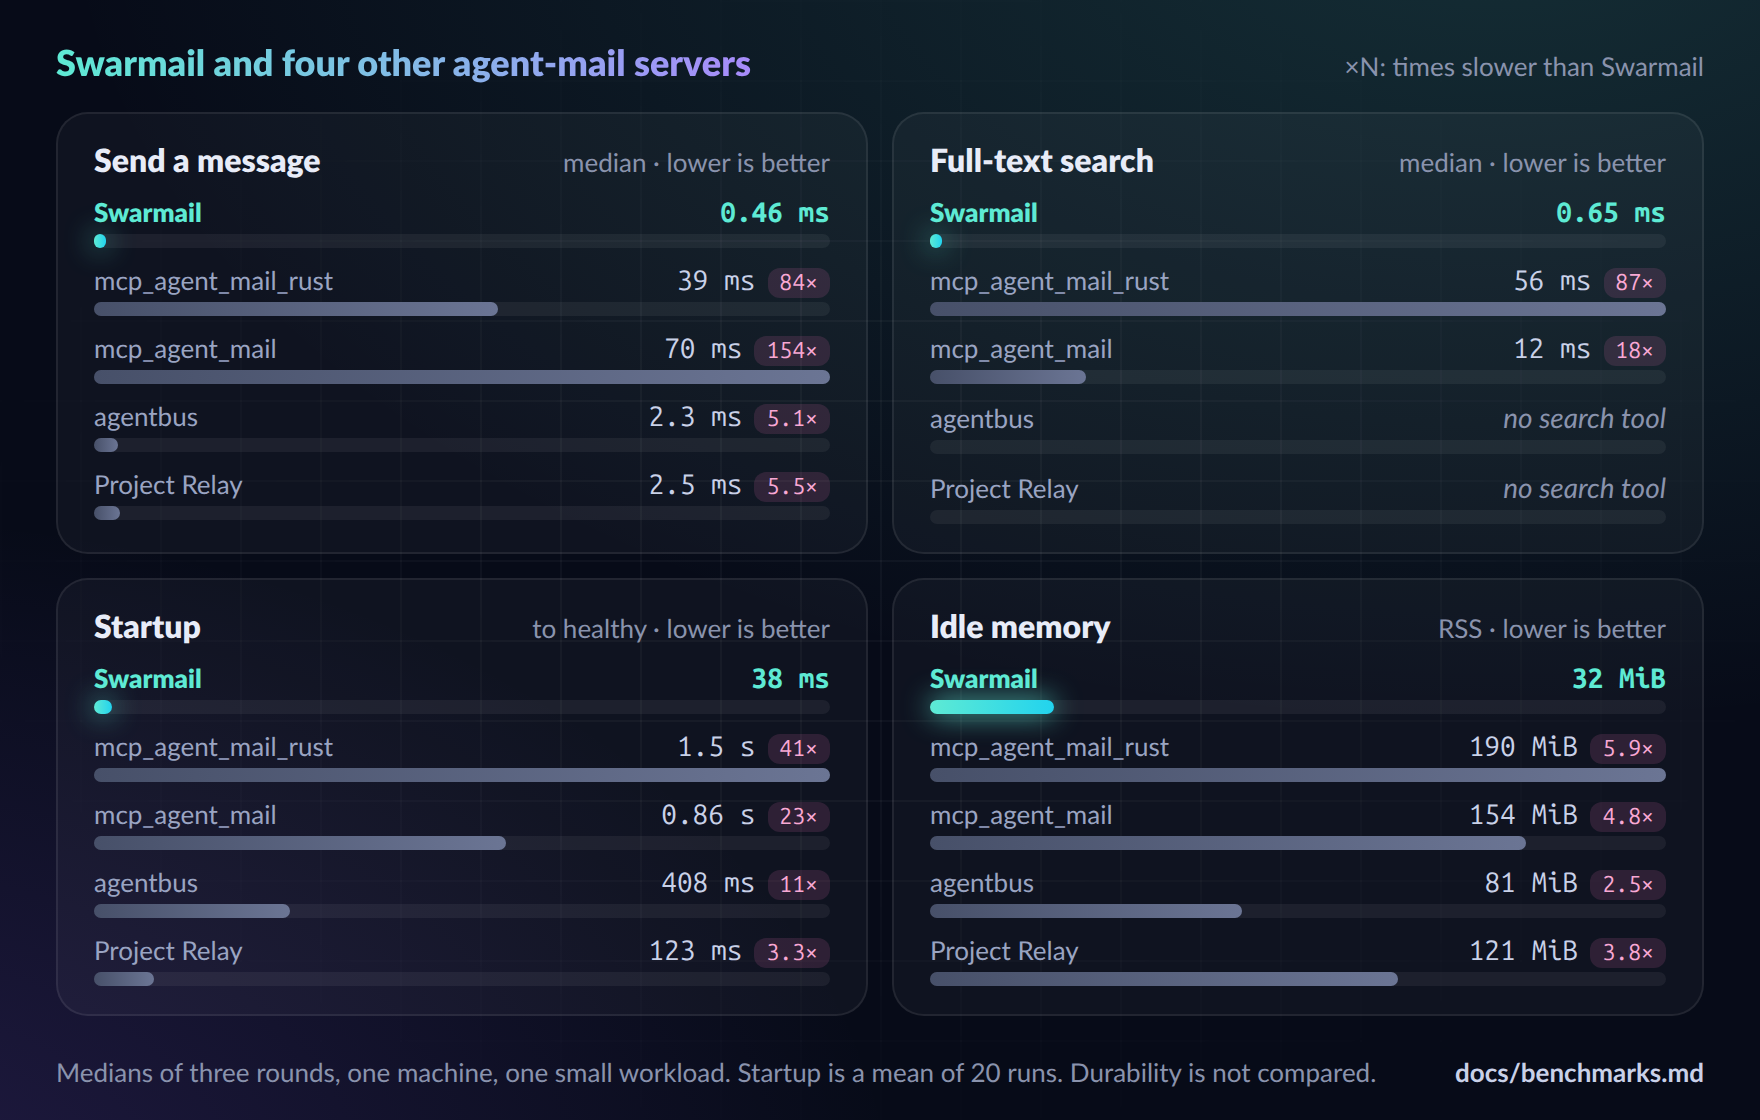
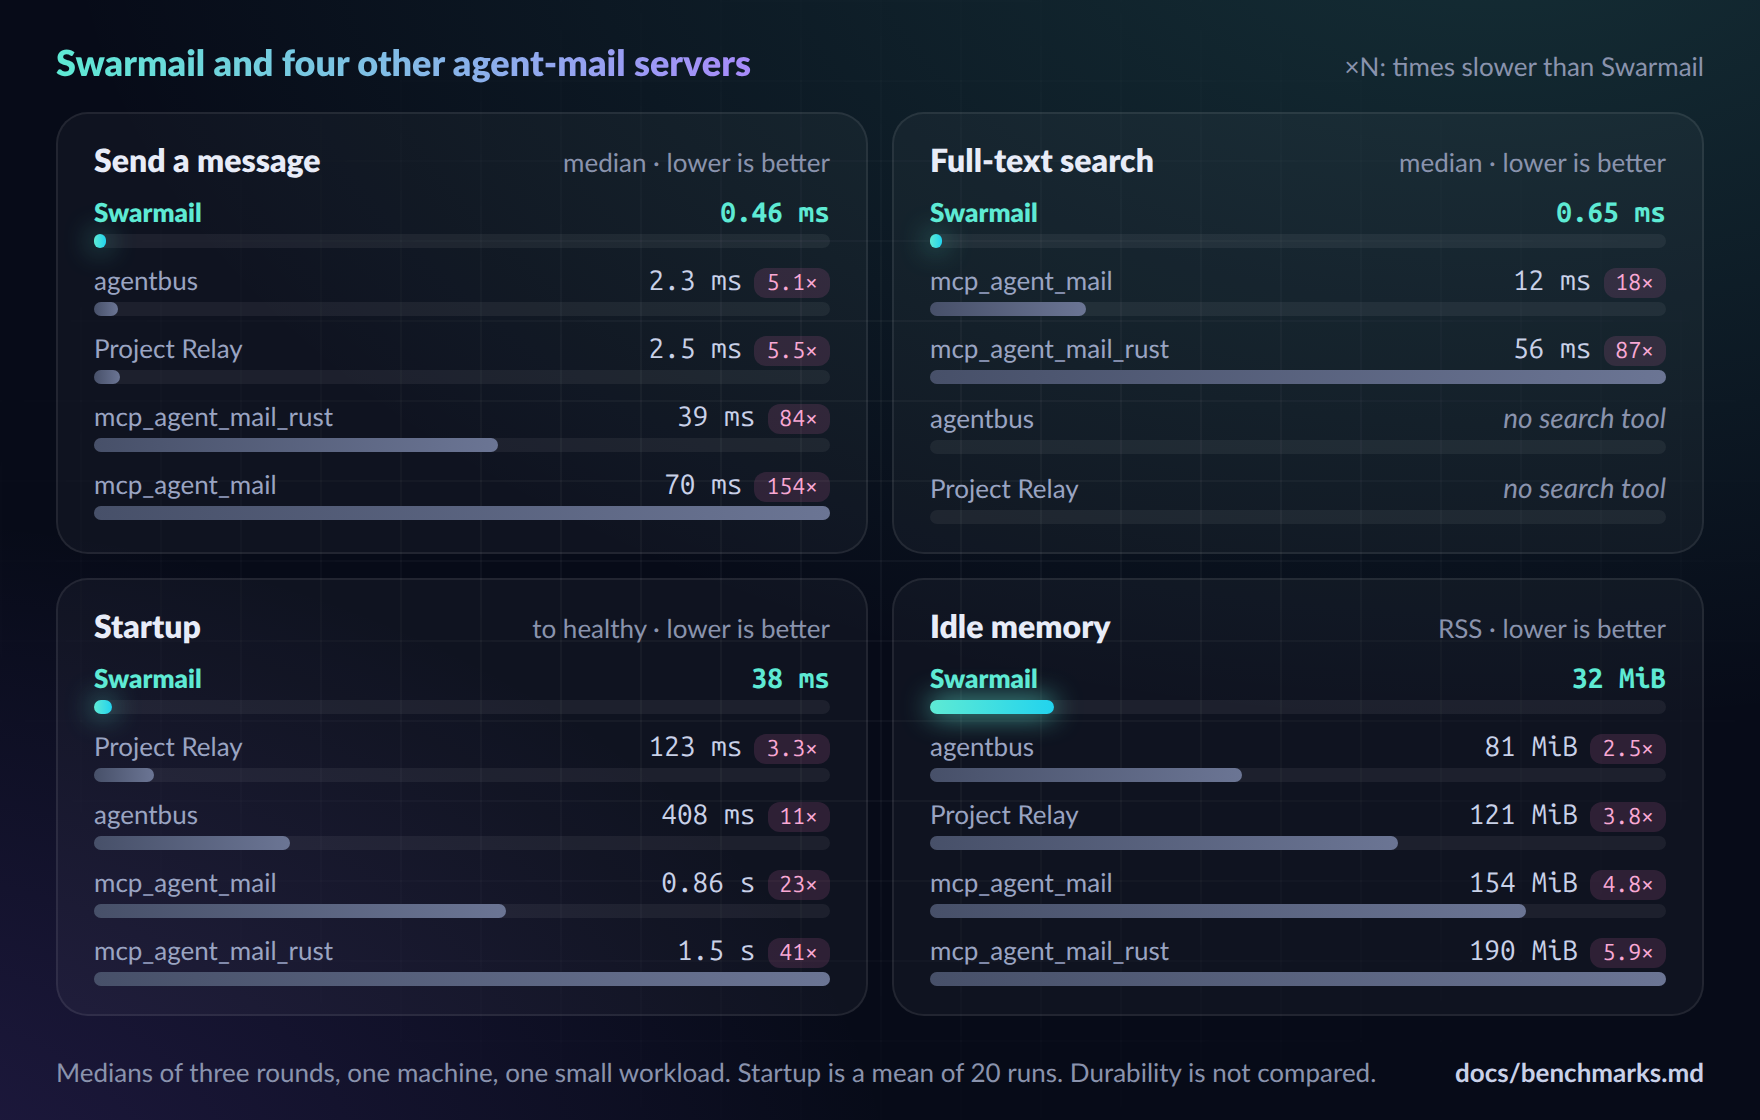
docs(readme): rank performance charts and simplify tables (#55)
* docs(readme): rank performance charts and simplify tables

* docs(readme): clarify chart sort directions

diff --git a/README.md b/README.md
@@ -280,55 +280,85 @@ wake an idle session.
 Measured on one machine with one small workload (40 agents, 250 seed messages,
 1,560 messages by the end), each server started on empty storage. Startup is
 hyperfine's mean of 20 runs; every other number is the median of three rounds,
-with latency from Tinybench and requests per second from oha. The multipliers
-are computed from those values. [docs/benchmarks.md](docs/benchmarks.md) has
+with latency from Tinybench and requests per second from oha. [docs/benchmarks.md](docs/benchmarks.md) has
 the method, a sixth server, each tool's raw output and a feature comparison
 with seven other local agent-mail servers.
 
 <a href="docs/assets/benchmark-light.png"><picture>
   <source media="(prefers-color-scheme: dark)" srcset="docs/assets/benchmark-dark.png">
-  <img src="docs/assets/benchmark-light.png" alt="Bar charts comparing Swarmail with mcp_agent_mail_rust, mcp_agent_mail, agentbus and Project Relay. Send p50: 0.46 ms, 39 ms, 70 ms, 2.3 ms and 2.5 ms. Search p50: 0.65 ms, 56 ms and 12 ms; agentbus and Project Relay have no search tool. Startup: 38 ms, 1.5 s, 0.86 s, 408 ms and 123 ms. Idle memory: 32 MiB, 190 MiB, 154 MiB, 81 MiB and 121 MiB." width="100%">
+  <img src="docs/assets/benchmark-light.png" alt="Bar charts sorted from best to worst for each metric. Send p50: Swarmail 0.46 ms, agentbus 2.3 ms, Project Relay 2.5 ms, Rust Agent Mail 39 ms, Python Agent Mail 70 ms. Search p50: Swarmail 0.65 ms, Python Agent Mail 12 ms, Rust Agent Mail 56 ms; agentbus and Project Relay have no search tool. Startup: Swarmail 38 ms, Project Relay 123 ms, agentbus 408 ms, Python Agent Mail 0.86 s, Rust Agent Mail 1.5 s. Idle memory: Swarmail 32 MiB, agentbus 81 MiB, Project Relay 121 MiB, Python Agent Mail 154 MiB, Rust Agent Mail 190 MiB." width="100%">
 </picture></a>
 
-| | Swarmail | mcp_agent_mail_rust | mcp_agent_mail | agentbus | Project Relay |
-| --- | --- | --- | --- | --- | --- |
-| **Latency, p50** | | | | | |
-| Send | 0.46 ms | 39 ms (84×) | 70 ms (154×) | 2.3 ms (5.1×) | 2.5 ms (5.5×) |
-| Fetch inbox | 0.50 ms | 12 ms (25×) | 23 ms (45×) | 1.1 ms (2.2×) | 1.4 ms (2.9×) |
-| Search | 0.65 ms | 56 ms (87×) | 12 ms (18×) | no search tool | no search tool |
-| **Throughput, 8 clients** | | | | | |
-| Send | 5,500 req/s | 50 req/s (109×) | 9.7 req/s (563×) | 876 req/s (6.2×) | 482 req/s (11×) |
-| Fetch inbox | 6,300 req/s | 416 req/s (15×) | 27 req/s (235×) | 1,600 req/s (4.0×) | 1,100 req/s (5.9×) |
-| Search | 4,300 req/s | 90 req/s (48×) | 44 req/s (97×) | no search tool | no search tool |
-| **Footprint** | | | | | |
-| Startup | 38 ms | 1.5 s (41×) | 0.86 s (23×) | 408 ms (11×) | 123 ms (3.3×) |
-| Memory, idle | 32 MiB | 190 MiB (5.9×) | 154 MiB (4.8×) | 81 MiB (2.5×) | 121 MiB (3.8×) |
-| Memory, peak under load | 67 MiB | 688 MiB (10×) | 258 MiB (3.9×) | 96 MiB (1.4×) | 296 MiB (4.5×) |
-| CPU, idle | 0.07% of a core | 0.15% of a core | 0.13% of a core | 0.13% of a core | under 0.02% of a core |
-| CPU time, timed calls* | 1.0 s | 183 s (183×) | 263 s (263×) | 2.6 s (2.6×) | 4.6 s (4.6×) |
-| Load 250 messages | 168 ms | 9.5 s (57×) | 17.7 s (106×) | 618 ms (3.7×) | 797 ms (4.8×) |
+Each chart ranks its metric from best to worst. Lower values are better in
+all four charts. The tables below put servers in rows and units in headings.
+Rust Agent Mail and Python Agent Mail are
+`mcp_agent_mail_rust` and `mcp_agent_mail`.
 
-\* 5,240 calls on the servers with search and 3,930 on agentbus and Project
-Relay, so their CPU multipliers compare fewer calls with Swarmail's 5,240.
+### Latency
 
-Startup as hyperfine reports it. Each run starts the server, waits for its
-health check, then kills it; `wrapper only` is the harness without a server,
-and hyperfine's `Relative` column compares against that row:
+Median latency in milliseconds; lower is better. Rows are sorted by send
+latency. Search has a different ranking. A dash means no search tool.
 
-| Command | Mean [ms] | Min [ms] | Max [ms] | Relative |
-|:---|---:|---:|---:|---:|
-| `wrapper only` | 7.2 ± 0.6 | 6.6 | 8.5 | 1.00 |
-| `Swarmail` | 37.7 ± 0.7 | 37.1 | 39.3 | 5.27 ± 0.43 |
-| `mcp_agent_mail_rust` | 1530.3 ± 14.9 | 1509.6 | 1562.8 | 213.82 ± 17.27 |
-| `mcp_agent_mail` | 857.7 ± 38.7 | 803.5 | 925.7 | 119.84 ± 11.03 |
-| `agent-inbox` | 263.0 ± 11.4 | 252.0 | 297.9 | 36.75 ± 3.35 |
-| `agentbus` | 408.2 ± 15.6 | 385.1 | 443.3 | 57.03 ± 5.06 |
-| `Project Relay` | 122.9 ± 5.3 | 113.8 | 132.7 | 17.17 ± 1.56 |
+| Server | Send ↓ | Inbox ↓ | Search ↓ |
+| :--- | ---: | ---: | ---: |
+| **Swarmail** | **0.46** | **0.50** | **0.65** |
+| agentbus | 2.3 | 1.1 | — |
+| Project Relay | 2.5 | 1.4 | — |
+| Rust Agent Mail | 39 | 12 | 56 |
+| Python Agent Mail | 70 | 23 | 12 |
 
-hyperfine timed all six servers, so agent-inbox appears here but not in the
-table above. Its inbox pages hold 50 messages instead of 20, its roster is
-global and its search matches substrings, so its fetch, list and search do
-different work. [docs/benchmarks.md](docs/benchmarks.md) has its full column.
+### Throughput
+
+Requests per second with eight clients; higher is better. Rows are sorted by
+send throughput. Search has a different ranking.
+
+| Server | Send ↑ | Inbox ↑ | Search ↑ |
+| :--- | ---: | ---: | ---: |
+| **Swarmail** | **5,500** | **6,300** | **4,300** |
+| agentbus | 876 | 1,600 | — |
+| Project Relay | 482 | 1,100 | — |
+| Rust Agent Mail | 50 | 416 | 90 |
+| Python Agent Mail | 9.7 | 27 | 44 |
+
+### Memory
+
+Resident memory in MiB; lower is better. Rows are sorted by idle memory.
+Peak memory has a different ranking.
+
+| Server | Idle ↓ | Peak under load ↓ |
+| :--- | ---: | ---: |
+| **Swarmail** | **32** | **67** |
+| agentbus | 81 | 96 |
+| Project Relay | 121 | 296 |
+| Python Agent Mail | 154 | 258 |
+| Rust Agent Mail | 190 | 688 |
+
+CPU usage, seed-loading times and the full ratios are in the
+[detailed results](docs/benchmarks.md#summary).
+
+### Startup
+
+Mean startup time in milliseconds across 20 hyperfine runs; lower is better.
+Rows are sorted by mean time. Each run starts the server, waits for its health
+check, then stops it.
+
+| Server | Mean ± SD ↓ | Min | Max |
+| :--- | ---: | ---: | ---: |
+| **Swarmail** | **37.7 ± 0.7** | **37.1** | **39.3** |
+| Project Relay | 122.9 ± 5.3 | 113.8 | 132.7 |
+| agent-inbox* | 263.0 ± 11.4 | 252.0 | 297.9 |
+| agentbus | 408.2 ± 15.6 | 385.1 | 443.3 |
+| Python Agent Mail | 857.7 ± 38.7 | 803.5 | 925.7 |
+| Rust Agent Mail | 1530.3 ± 14.9 | 1509.6 | 1562.8 |
+
+The harness without a server takes 7.2 ± 0.6 ms (min 6.6, max 8.5).
+Hyperfine's raw `Relative` column compares against that harness, not Swarmail;
+see the [startup output](docs/benchmarks.md#startup-hyperfine).
+
+\* agent-inbox appears only in startup here. Its inbox pages hold 50 messages
+instead of 20, its roster is global and its search matches substrings, so its
+fetch, list and search do different work. The
+[detailed comparison](docs/benchmarks.md) has its full column.
 
 mcp_agent_mail commits each send to a Git archive before it returns, so these
 numbers don't compare durability. Requests per second varied by up to 29%

diff --git a/CHANGELOG.md b/CHANGELOG.md
@@ -4,6 +4,9 @@ Notable changes to Swarmail. Versions follow [semantic versioning](https://semve
 
 ## Unreleased
 
+- README performance charts rank each metric, and smaller tables show latency,
+  throughput, memory and startup with explicit sort columns.
+
 - The README compares roster scope, search, threads, receipts, file reservations
   and idle wakes across the six benchmarked servers, with pinned source links.
 
